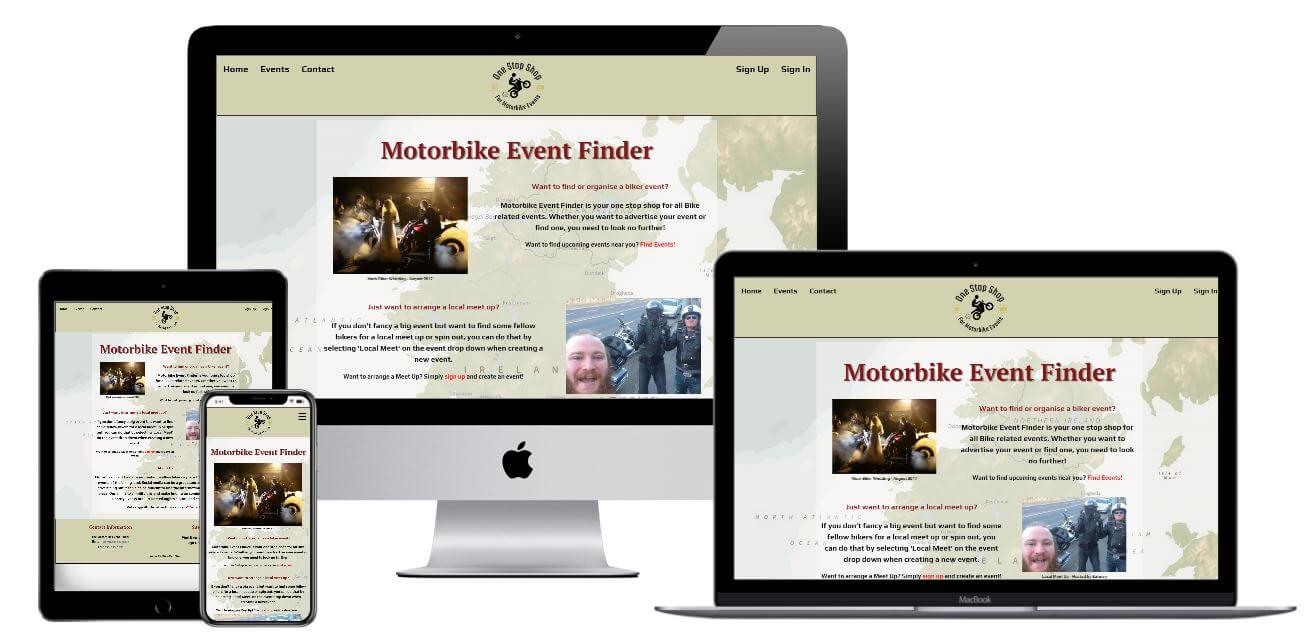
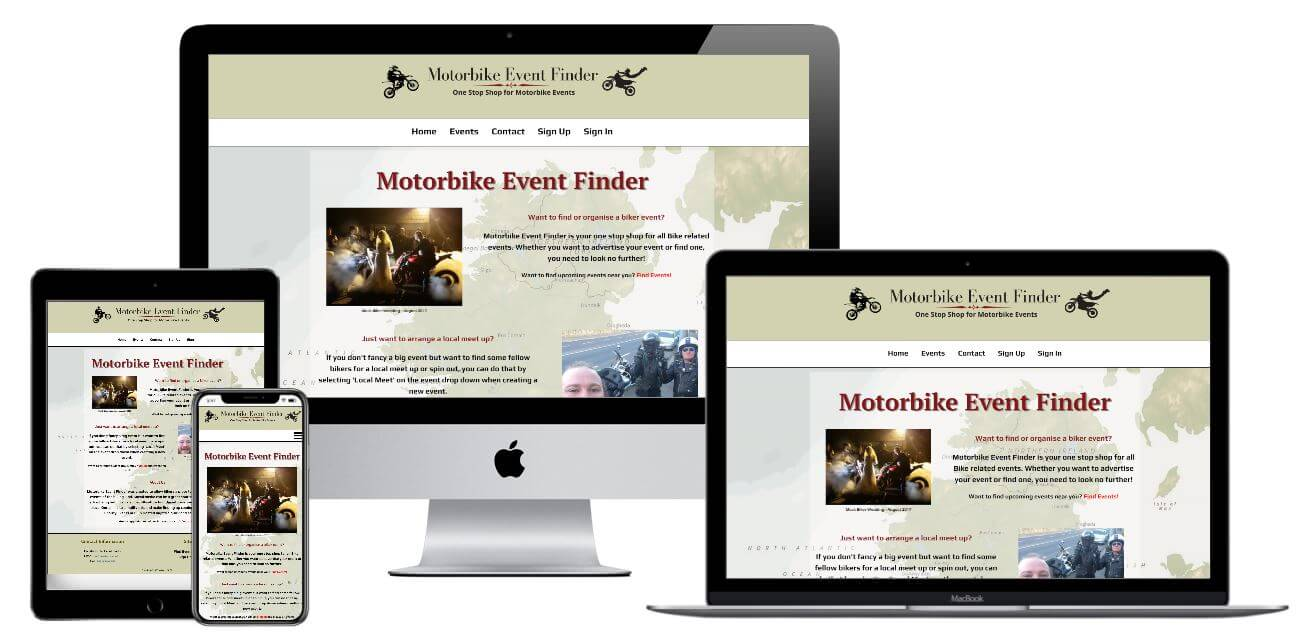
Added new mock up for updated design. Altered Save button in edit event to be the same size as Cancel button for better consistency. Capitalized Name on profile page.

Changed region(s): [[0.0, 0.0298, 1.0, 0.9843]]

diff --git a/templates/edit-event.html b/templates/edit-event.html
@@ -61,7 +61,7 @@
                             </a>
                         </div>
                         <div class="col s12 m6 center-align">
-                            <button type="submit" class="btn-large button-bg-color text-shadow">
+                            <button type="submit" class="btn-large text-shadow" id="save-btn">
                                 Save <i class="fas fa-edit right"></i>
                             </button>
                         </div>

diff --git a/templates/profile.html b/templates/profile.html
@@ -10,7 +10,7 @@
                 <p>Username: {{ username.username }}</p>
                 <p>Name: 
                     {% if username.name  %}
-                        {{ username.name }} 
+                        {{ username.name|capitalize }} 
                     {% else %}
                         Not disclosed
                     {% endif %}

diff --git a/static/css/style.css b/static/css/style.css
@@ -174,6 +174,17 @@ main {
     color: #831717;
 }
 
+/* Edit Event Page */
+#save-btn {
+    background-color: rgb(57, 168, 57);
+    color: black;
+    font-weight: 700;
+}
+
+.fa-edit:before {
+    margin-left: 19px;
+}
+
 /* Contact Page */
 .email-response {
     font-size: 1vw;
